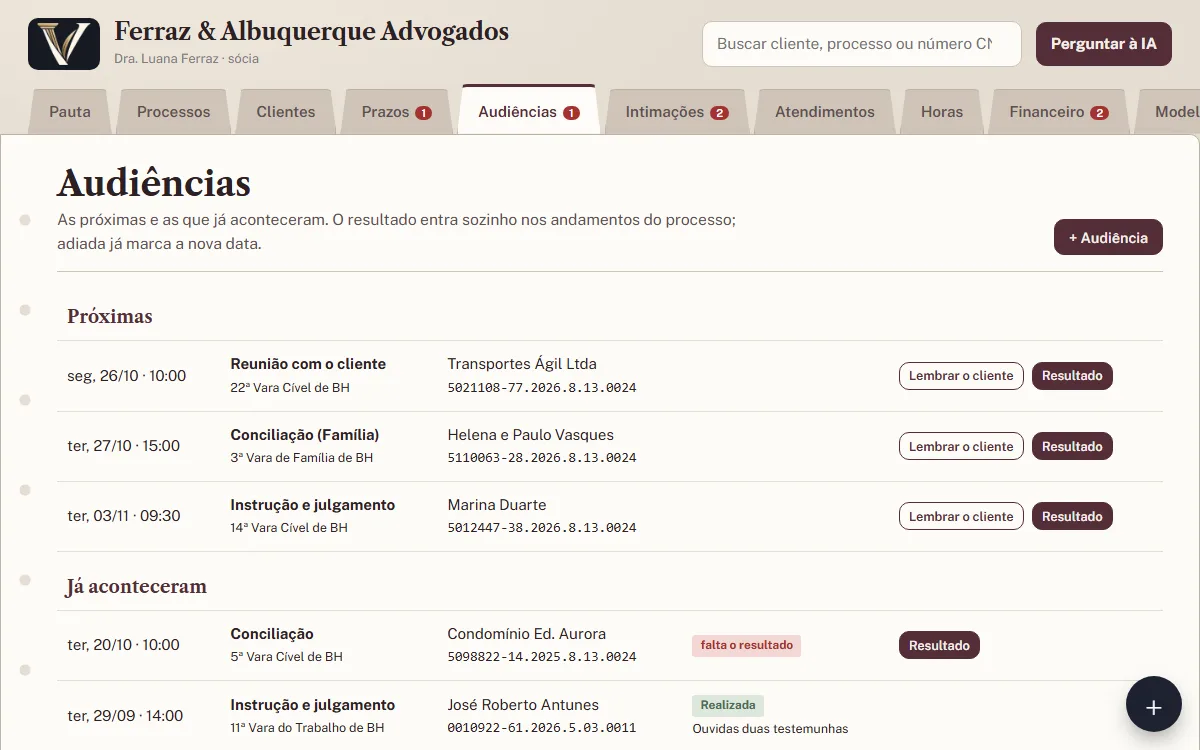
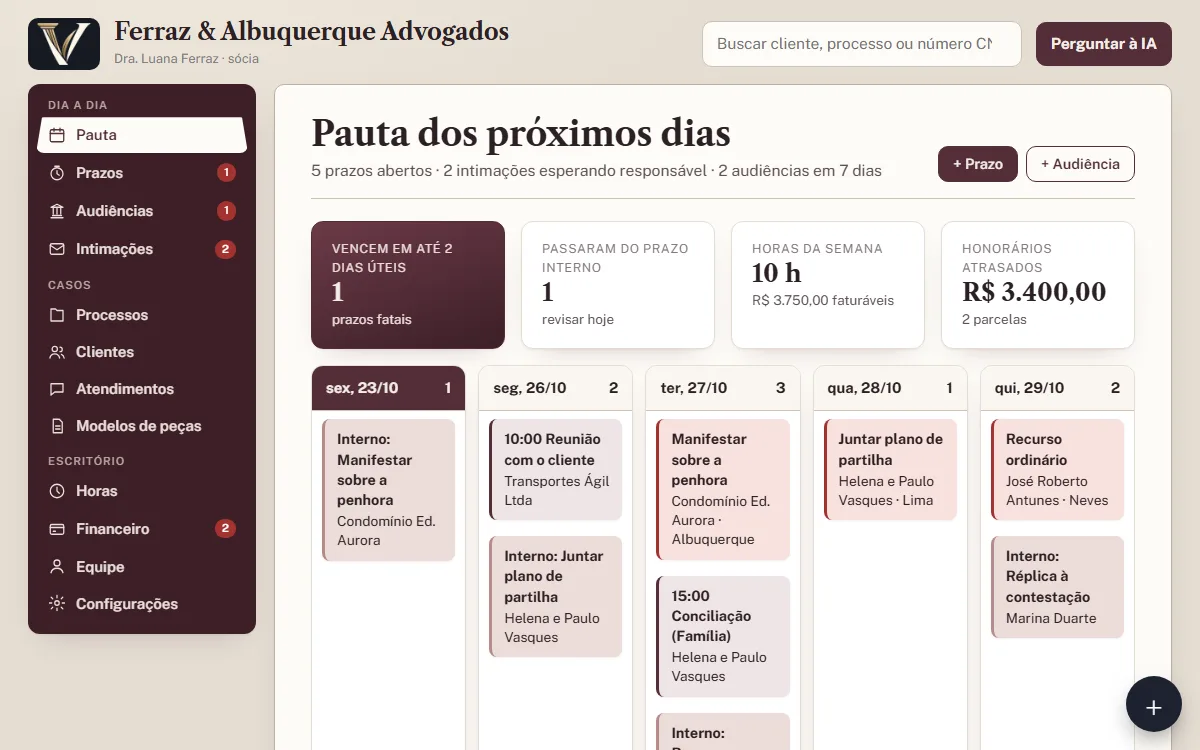
Jurídico Completo: menu lateral

diff --git a/veltria-juridico.html b/veltria-juridico.html
@@ -38,7 +38,7 @@
 <script src="js/videos.js?v=10" defer></script>
 <script src="js/versao.js?v=1" defer></script>
 <script src="js/conta.js?v=9" defer></script>
-<script type="application/ld+json">[{"@context": "https://schema.org", "@type": "SoftwareApplication", "name": "Veltria Jurídico", "applicationCategory": "BusinessApplication", "operatingSystem": "Web, Android, iOS (navegador)", "description": "As intimações do Diário de Justiça Eletrônico chegam sozinhas, com o prazo contado em dias úteis, feriados e recesso forense.", "url": "https://bluerose-store.com/veltria-juridico.html", "image": "https://bluerose-store.com/img/sistemas/juridico-completo.webp?v=5", "offers": [{"@type": "Offer", "price": "149", "priceCurrency": "BRL", "name": "Assinatura mensal"}], "publisher": {"@type": "Organization", "name": "Blue Rose Express", "url": "https://bluerose-store.com/"}}, {"@context": "https://schema.org", "@type": "FAQPage", "mainEntity": [{"@type": "Question", "name": "De onde vêm as intimações?", "acceptedAnswer": {"@type": "Answer", "text": "Do DJEN, o Diário de Justiça Eletrônico Nacional do CNJ, pela API pública. Você cadastra as OABs e o sistema busca todo dia."}}, {"@type": "Question", "name": "Considera feriados locais?", "acceptedAnswer": {"@type": "Answer", "text": "Os nacionais e o recesso forense já vêm prontos. Os feriados estaduais e municipais da sua comarca não vêm prontos: confira esses dias ao calcular o prazo."}}, {"@type": "Question", "name": "Os dados ficam seguros?", "acceptedAnswer": {"@type": "Answer", "text": "Sim. Na versão na nuvem, cada escritório só vê os próprios dados, com regras de acesso no banco de dados."}}, {"@type": "Question", "name": "Como funciona o teste de 7 dias?", "acceptedAnswer": {"@type": "Answer", "text": "Crie a conta e use por 7 dias sem pagar e sem cartão. Se gostar, assine e os dados continuam; se não, nada é cobrado."}}]}, {"@context": "https://schema.org", "@type": "BreadcrumbList", "itemListElement": [{"@type": "ListItem", "position": 1, "name": "Início", "item": "https://bluerose-store.com/"}, {"@type": "ListItem", "position": 2, "name": "Sistemas", "item": "https://bluerose-store.com/sistemas.html"}, {"@type": "ListItem", "position": 3, "name": "Veltria Jurídico", "item": "https://bluerose-store.com/veltria-juridico.html"}]}]</script>
+<script type="application/ld+json">[{"@context": "https://schema.org", "@type": "SoftwareApplication", "name": "Veltria Jurídico", "applicationCategory": "BusinessApplication", "operatingSystem": "Web, Android, iOS (navegador)", "description": "As intimações do Diário de Justiça Eletrônico chegam sozinhas, com o prazo contado em dias úteis, feriados e recesso forense.", "url": "https://bluerose-store.com/veltria-juridico.html", "image": "https://bluerose-store.com/img/sistemas/juridico-completo.webp?v=6", "offers": [{"@type": "Offer", "price": "149", "priceCurrency": "BRL", "name": "Assinatura mensal"}], "publisher": {"@type": "Organization", "name": "Blue Rose Express", "url": "https://bluerose-store.com/"}}, {"@context": "https://schema.org", "@type": "FAQPage", "mainEntity": [{"@type": "Question", "name": "De onde vêm as intimações?", "acceptedAnswer": {"@type": "Answer", "text": "Do DJEN, o Diário de Justiça Eletrônico Nacional do CNJ, pela API pública. Você cadastra as OABs e o sistema busca todo dia."}}, {"@type": "Question", "name": "Considera feriados locais?", "acceptedAnswer": {"@type": "Answer", "text": "Os nacionais e o recesso forense já vêm prontos. Os feriados estaduais e municipais da sua comarca não vêm prontos: confira esses dias ao calcular o prazo."}}, {"@type": "Question", "name": "Os dados ficam seguros?", "acceptedAnswer": {"@type": "Answer", "text": "Sim. Na versão na nuvem, cada escritório só vê os próprios dados, com regras de acesso no banco de dados."}}, {"@type": "Question", "name": "Como funciona o teste de 7 dias?", "acceptedAnswer": {"@type": "Answer", "text": "Crie a conta e use por 7 dias sem pagar e sem cartão. Se gostar, assine e os dados continuam; se não, nada é cobrado."}}]}, {"@context": "https://schema.org", "@type": "BreadcrumbList", "itemListElement": [{"@type": "ListItem", "position": 1, "name": "Início", "item": "https://bluerose-store.com/"}, {"@type": "ListItem", "position": 2, "name": "Sistemas", "item": "https://bluerose-store.com/sistemas.html"}, {"@type": "ListItem", "position": 3, "name": "Veltria Jurídico", "item": "https://bluerose-store.com/veltria-juridico.html"}]}]</script>
 <link rel="stylesheet" href="css/assistente.css?v=7">
 <script src="js/assistente.js?v=20" defer></script>
 <script src="js/cookies.js?v=2" defer></script>
@@ -74,7 +74,7 @@
       <div class="np-cta"><a class="btn btn-primary" href="app/juridicocompleto/" data-teste="juridicocompleto" data-teste-nome="Veltria Jurídico Completo" data-teste-mensal="149">Testar 7 dias grátis</a><a class="btn btn-ghost" href="#versoes">Ver as 3 versões</a></div>
       <p class="np-nota">7 dias grátis em qualquer versão, sem cartão: nada é cobrado no teste. Depois, a partir de <b>R$&nbsp;89/mês</b> (Essencial), sem fidelidade.</p>
     </div>
-    <div class="np-video"><a href="demos/sistemas/juridico-completo/" target="_blank" rel="noopener"><img src="img/sistemas/juridico-completo.webp?v=5" width="1200" height="750" alt="Tela do Veltria Jurídico Completo"></a><p>Veltria Jurídico Completo · clique para abrir a demonstração</p></div>
+    <div class="np-video"><a href="demos/sistemas/juridico-completo/" target="_blank" rel="noopener"><img src="img/sistemas/juridico-completo.webp?v=6" width="1200" height="750" alt="Tela do Veltria Jurídico Completo"></a><p>Veltria Jurídico Completo · clique para abrir a demonstração</p></div>
   </section>
   <section class="np-dores wrap"><h2 class="sec-title">O que ele resolve</h2><div class="np-tres"><div><span class="np-num">01</span><p>Ler os diários todo dia para não perder intimação</p></div><div><span class="np-num">02</span><p>Contar prazo na mão, com risco de errar feriado</p></div><div><span class="np-num">03</span><p>Horas e honorários controlados em planilha</p></div></div></section>
   <section class="vs wrap" id="versoes"><h2 class="sec-title">Escolha a sua versão</h2><p class="vs-intro">Três sistemas diferentes, cada um feito para um tamanho de negócio. Todos com 7 dias grátis, sem cartão, Assistente IA e equipe com login de cada pessoa.</p><div class="vs-grade"><article class="vs-card"><span class="vs-chip">App para celular</span><h3 class="vs-nome">Essencial</h3><p class="vs-para">Advogado autônomo</p><p class="vs-preco"><span>R$</span><b>89</b><span>/mês</span></p><p class="vs-ano">ou R$&nbsp;854 por ano, 20% a menos</p><ul class="vs-lista"><li><svg class="ico" aria-hidden="true"><use href="img/icones.svg#i-check"/></svg><span>Prazos contados em dias úteis, com feriados e recesso</span></li><li><svg class="ico" aria-hidden="true"><use href="img/icones.svg#i-check"/></svg><span>Intimações explicadas em português simples</span></li><li><svg class="ico" aria-hidden="true"><use href="img/icones.svg#i-check"/></svg><span>Processos, audiências e calculadora</span></li><li><svg class="ico" aria-hidden="true"><use href="img/icones.svg#i-check"/></svg><span>Honorários com cobrança no WhatsApp</span></li><li><svg class="ico" aria-hidden="true"><use href="img/icones.svg#i-check"/></svg><span>Minha assinatura dentro do app</span></li></ul><div class="vs-bts"><a class="btn btn-primary" href="app/juridicoessencial/" data-teste="juridicoessencial" data-teste-nome="Veltria Jurídico Essencial" data-teste-mensal="89">Testar 7 dias grátis</a><a class="vs-demo" href="demos/sistemas/juridico-essencial/?celular=1" target="_blank" rel="noopener">Ver a demonstração</a></div></article><article class="vs-card vs-destaque"><span class="vs-chip">O mais escolhido</span><h3 class="vs-nome">Completo</h3><p class="vs-para">Escritório pequeno</p><p class="vs-preco"><span>R$</span><b>149</b><span>/mês</span></p><p class="vs-ano">ou R$&nbsp;1.430 por ano, 20% a menos</p><ul class="vs-lista"><li><svg class="ico" aria-hidden="true"><use href="img/icones.svg#i-check"/></svg><span>Pauta da semana do escritório</span></li><li><svg class="ico" aria-hidden="true"><use href="img/icones.svg#i-check"/></svg><span>Prazo interno e fatal com responsável</span></li><li><svg class="ico" aria-hidden="true"><use href="img/icones.svg#i-check"/></svg><span>Intimações para distribuir e atendimentos</span></li><li><svg class="ico" aria-hidden="true"><use href="img/icones.svg#i-check"/></svg><span>Horas, honorários e modelos de peças</span></li><li><svg class="ico" aria-hidden="true"><use href="img/icones.svg#i-check"/></svg><span>Clientes com CPF/CNPJ conferido e conflito de interesses</span></li><li><svg class="ico" aria-hidden="true"><use href="img/icones.svg#i-check"/></svg><span>Calculadora de prazo forense e protocolo com número</span></li><li><svg class="ico" aria-hidden="true"><use href="img/icones.svg#i-check"/></svg><span>Audiências com resultado nos andamentos</span></li><li><svg class="ico" aria-hidden="true"><use href="img/icones.svg#i-check"/></svg><span>Tarefas por processo, editar e encerrar processo</span></li><li><svg class="ico" aria-hidden="true"><use href="img/icones.svg#i-check"/></svg><span>Êxito, cobrança das horas e recibo com valor por extenso</span></li><li><svg class="ico" aria-hidden="true"><use href="img/icones.svg#i-check"/></svg><span>Equipe e assistente IA</span></li></ul><div class="vs-bts"><a class="btn btn-primary" href="app/juridicocompleto/" data-teste="juridicocompleto" data-teste-nome="Veltria Jurídico Completo" data-teste-mensal="149">Testar 7 dias grátis</a><a class="vs-demo" href="demos/sistemas/juridico-completo/" target="_blank" rel="noopener">Ver a demonstração</a></div></article><article class="vs-card"><span class="vs-chip">Para quem quer tudo</span><h3 class="vs-nome">Avançado</h3><p class="vs-para">Banca com muitos processos</p><p class="vs-preco"><span>R$</span><b>299</b><span>/mês</span></p><p class="vs-ano">ou R$&nbsp;2.870 por ano, 20% a menos</p><ul class="vs-lista"><li><svg class="ico" aria-hidden="true"><use href="img/icones.svg#i-check"/></svg><span>Filas de trabalho com atalhos de teclado</span></li><li><svg class="ico" aria-hidden="true"><use href="img/icones.svg#i-check"/></svg><span>Prazos com dupla checagem e conflitos</span></li><li><svg class="ico" aria-hidden="true"><use href="img/icones.svg#i-check"/></svg><span>Jurimetria e provisões de risco</span></li><li><svg class="ico" aria-hidden="true"><use href="img/icones.svg#i-check"/></svg><span>Faturamento com rateio entre sócios</span></li><li><svg class="ico" aria-hidden="true"><use href="img/icones.svg#i-check"/></svg><span>Audiências com advogado ou correspondente escalado</span></li><li><svg class="ico" aria-hidden="true"><use href="img/icones.svg#i-check"/></svg><span>Pedidos dos clientes com prazo de resposta</span></li><li><svg class="ico" aria-hidden="true"><use href="img/icones.svg#i-check"/></svg><span>Acordos com a alçada de cada cliente</span></li><li><svg class="ico" aria-hidden="true"><use href="img/icones.svg#i-check"/></svg><span>Carga da equipe e meta de horas</span></li><li><svg class="ico" aria-hidden="true"><use href="img/icones.svg#i-check"/></svg><span>Correspondentes, diligências e nota de débito</span></li><li><svg class="ico" aria-hidden="true"><use href="img/icones.svg#i-check"/></svg><span>Relatório mensal para o cliente</span></li><li><svg class="ico" aria-hidden="true"><use href="img/icones.svg#i-check"/></svg><span>Processos em massa, prazo em lote e auditoria</span></li></ul><div class="vs-bts"><a class="btn btn-primary" href="app/juridicoavancado/" data-teste="juridicoavancado" data-teste-nome="Veltria Jurídico Avançado" data-teste-mensal="299">Testar 7 dias grátis</a><a class="vs-demo" href="demos/sistemas/juridico-avancado/" target="_blank" rel="noopener">Ver a demonstração</a></div></article></div></section>

diff --git a/demos/sistemas/juridico-completo/app.js b/demos/sistemas/juridico-completo/app.js
@@ -117,7 +117,18 @@ const opcoesProc = (sel) => db.processos.map((p) => `<option value="${p.id}" ${p
 function seloPrazo(p) { if (p.status === 'protocolado') return '<span class="et ok">protocolado</span>'; const u = uteisFaltam(p.fatal); return u < 0 ? '<span class="et v">vencido</span>' : u <= 1 ? `<span class="et v">${u === 0 ? 'vence hoje' : '1 dia útil'}</span>` : p.interno <= 0 ? `<span class="et a">passou do interno · ${u} d.ú.</span>` : `<span class="et">${u} dias úteis</span>`; }
 
 // ------------------------------------------------------------------ abas
-const ABAS = [['pauta', 'Pauta'], ['processos', 'Processos'], ['clientes', 'Clientes'], ['prazos', 'Prazos'], ['audiencias', 'Audiências'], ['intimacoes', 'Intimações'], ['atendimentos', 'Atendimentos'], ['horas', 'Horas'], ['financeiro', 'Financeiro'], ['modelos', 'Modelos de peças'], ['equipe', 'Equipe'], ['ajustes', 'Ajustes']];
+const ABAS = [['pauta', 'Pauta'], ['processos', 'Processos'], ['clientes', 'Clientes'], ['prazos', 'Prazos'], ['audiencias', 'Audiências'], ['intimacoes', 'Intimações'], ['atendimentos', 'Atendimentos'], ['horas', 'Horas'], ['financeiro', 'Financeiro'], ['modelos', 'Modelos de peças'], ['equipe', 'Equipe'], ['ajustes', 'Configurações']];
+// índice lateral da pasta: seções em grupos; no celular, os 4 primeiros atalhos ficam na barra de baixo e o resto em "Mais"
+const GRUPOS_J = [['Dia a dia', ['pauta', 'prazos', 'audiencias', 'intimacoes']], ['Casos', ['processos', 'clientes', 'atendimentos', 'modelos']], ['Escritório', ['horas', 'financeiro', 'equipe', 'ajustes']]];
+const RAPIDOS_J = ['pauta', 'prazos', 'processos', 'clientes'];
+const ICO_J = { pauta: '<rect x="3" y="5" width="18" height="16" rx="2"/><path d="M3 10h18M8 3v4M16 3v4"/>', prazos: '<circle cx="12" cy="13" r="8"/><path d="M12 9v4l3 2M9 3h6"/>', audiencias: '<path d="M4 21h16M6 18h12M12 3l8 4H4z"/><path d="M7 8v8M12 8v8M17 8v8"/>', intimacoes: '<rect x="3" y="5" width="18" height="14" rx="2"/><path d="M3 7l9 6 9-6"/>', processos: '<path d="M4 4h6l2 2h8v14H4z"/>', clientes: '<circle cx="9" cy="8" r="3.5"/><path d="M2.5 20c.8-3.5 3.4-5.5 6.5-5.5s5.7 2 6.5 5.5"/><path d="M16 11.5a3 3 0 1 0 0-6M21.5 20c-.4-2.4-1.7-4.1-3.6-4.9"/>', atendimentos: '<path d="M4 5h16v11H9l-5 4z"/>', modelos: '<path d="M7 3h8l4 4v14H7z"/><path d="M10 12h6M10 16h6"/>', horas: '<circle cx="12" cy="12" r="9"/><path d="M12 7v5l3 3"/>', financeiro: '<rect x="3" y="6" width="18" height="13" rx="2"/><path d="M3 10h18M7 15h3"/>', equipe: '<circle cx="12" cy="8" r="4"/><path d="M4 21c1-4 4.3-6 8-6s7 2 8 6"/>', ajustes: '<circle cx="12" cy="12" r="3"/><path d="M12 2v3M12 19v3M4.2 4.2l2.1 2.1M17.7 17.7l2.1 2.1M2 12h3M19 12h3M4.2 19.8l2.1-2.1M17.7 6.3l2.1-2.1"/>', mais: '<circle cx="5" cy="12" r="1.6"/><circle cx="12" cy="12" r="1.6"/><circle cx="19" cy="12" r="1.6"/>' };
+const nomeAbaJ = (k) => (ABAS.find(([x]) => x === k) || [k, k])[1];
+function indiceJ(atual, cont) {
+  const item = (k) => `<a href="#${k}" ${k === atual ? 'aria-current="page"' : ''}><svg viewBox="0 0 24 24" aria-hidden="true">${ICO_J[k]}</svg><span>${nomeAbaJ(k)}</span>${cont[k] ? `<span class="cont" aria-label="${cont[k]} pendente(s)">${cont[k]}</span>` : ''}</a>`;
+  const noMais = !RAPIDOS_J.includes(atual), pendMais = GRUPOS_J.flatMap(([, ks]) => ks).filter((k) => !RAPIDOS_J.includes(k)).reduce((s, k) => s + (cont[k] || 0), 0);
+  return `<div class="indice-j" id="indice-j">${GRUPOS_J.map(([g, ks]) => `<p class="grupo-j">${g}</p>${ks.map(item).join('')}`).join('')}</div>
+    <div class="rapido-j">${RAPIDOS_J.map(item).join('')}<button type="button" class="mais-j" data-mais-j aria-expanded="false" aria-controls="indice-j" ${noMais ? 'aria-current="page"' : ''}><svg viewBox="0 0 24 24" aria-hidden="true">${ICO_J.mais}</svg><span>Mais</span>${pendMais ? `<span class="cont">${pendMais}</span>` : ''}</button></div>`;
+}
 let sub = 'andamentos', verEnc = false;
 const V = {
   pauta() {
@@ -213,7 +224,7 @@ const V = {
   },
   ajustes() {
     const a = db.ajustes;
-    return `<div class="titulo"><div><h1>Ajustes</h1><p>Seus e do escritório.</p></div></div><div class="grade"><section class="ficha c6"><h2>Você</h2><label class="cp">Seu nome<input data-meu-nome value="${sx(pessoa(db.eu).nome)}"></label><label class="cp">Abrir em<select data-aj="abrir">${ABAS.slice(0, 8).map(([k, t]) => `<option value="${k}" ${a.abrir === k ? 'selected' : ''}>${t}</option>`).join('')}</select></label><label class="cp">Letras<select data-aj="letra"><option value="normal" ${a.letra === 'normal' ? 'selected' : ''}>Normal</option><option value="grande" ${a.letra === 'grande' ? 'selected' : ''}>Grande</option></select></label></section>
+    return `<div class="titulo"><div><h1>Configurações</h1><p>Seus e do escritório.</p></div></div><div class="grade"><section class="ficha c6"><h2>Você</h2><label class="cp">Seu nome<input data-meu-nome value="${sx(pessoa(db.eu).nome)}"></label><label class="cp">Abrir em<select data-aj="abrir">${ABAS.slice(0, 8).map(([k, t]) => `<option value="${k}" ${a.abrir === k ? 'selected' : ''}>${t}</option>`).join('')}</select></label><label class="cp">Letras<select data-aj="letra"><option value="normal" ${a.letra === 'normal' ? 'selected' : ''}>Normal</option><option value="grande" ${a.letra === 'grande' ? 'selected' : ''}>Grande</option></select></label></section>
       <section class="ficha c6"><h2>Escritório</h2><label class="cp">Nome<input data-esc="nome" value="${sx(db.esc.nome)}"></label><label class="cp">OAB da sociedade<input data-esc="oab" value="${sx(db.esc.oab)}"></label><label class="cp">Prazo interno (dias úteis antes do fatal)<select data-aj="alertaInterno">${[1, 2, 3, 5].map((n) => `<option ${a.alertaInterno == n ? 'selected' : ''}>${n}</option>`).join('')}</select></label></section></div>`;
   },
 };
@@ -262,7 +273,7 @@ function abre() {
   const [s, a] = (location.hash.slice(1) || db.ajustes.abrir || 'pauta').split('/');
   const cont = { prazos: db.prazos.filter((p) => p.status === 'aberto' && uteisFaltam(p.fatal) <= 2).length, intimacoes: db.intimacoes.filter((i) => !i.tratada).length, financeiro: parcAberto().filter(({ p }) => p.dia < 0).length, audiencias: db.audiencias.filter((a) => a.dia < 0 && !a.resultado).length };
   const atual = s === 'processo' ? 'processos' : s;
-  qs('#fichario').innerHTML = ABAS.map(([k, t]) => `<a href="#${k}" ${k === atual ? 'aria-current="page"' : ''}>${t}${cont[k] ? `<span class="cont">${cont[k]}</span>` : ''}</a>`).join('');
+  qs('#fichario').innerHTML = indiceJ(atual, cont); qs('#fichario').classList.remove('aberto');
   qs('#pasta').innerHTML = (V[s] || V.pauta)(a);
   qs('#esc-nome').textContent = db.esc.nome; qs('#esc-usuario').textContent = `${pessoa(db.eu).nome} · ${pessoa(db.eu).cargo.toLowerCase()}`;
   document.documentElement.style.fontSize = db.ajustes.letra === 'grande' ? '112%' : '';
@@ -334,6 +345,8 @@ const F = {
 };
 
 document.addEventListener('click', (e) => {
+  const mj = e.target.closest('[data-mais-j]'); if (mj) { const n = qs('#fichario'), ab = n.classList.toggle('aberto'); mj.setAttribute('aria-expanded', String(ab)); return; }
+  if (!e.target.closest('#fichario')) qs('#fichario')?.classList.remove('aberto');
   const t = e.target;
   if (t.closest('[data-ia]')) { gavetaIA(); return; }
   if (t.closest('[data-fecha-ia]')) { qs('#gaveta-ia').hidden = true; return; }

diff --git a/demos/sistemas/juridico-completo/estilo.css b/demos/sistemas/juridico-completo/estilo.css
@@ -158,3 +158,47 @@ tbody tr { transition: background .12s ease; } tbody tr:hover td { background: #
 
 /* recibo: imprime só a janela */
 @media print { body.so-recibo > *:not(.veu) { display: none !important; } body.so-recibo .veu { position: static; background: none; padding: 0; } body.so-recibo .janela { box-shadow: none; border: 0; max-width: none; } body.so-recibo .janela h2, body.so-recibo .janela .pe { display: none; } }
+
+/* ===== índice lateral 23/10/2026: as seções saem do topo e viram o índice da pasta, à esquerda; no celular, barra embaixo + Mais ===== */
+.mesa-j { display: grid; grid-template-columns: 228px minmax(0, 1fr); gap: 0 18px; max-width: 1480px; margin: 0 auto; padding: 0 28px 28px; align-items: start; }
+.mesa-j .pasta { margin: 0; max-width: none; border-radius: 10px; min-height: calc(100dvh - 120px); }
+.fichario { position: sticky; top: 12px; display: block; padding: 0; overflow: visible; max-width: none; margin: 0; }
+.indice-j { background: var(--bordo-esc); color: #eadfd9; border-radius: 12px; padding: 10px 8px 12px; box-shadow: var(--sombra); max-height: calc(100dvh - 24px); overflow-y: auto; scrollbar-width: thin; }
+.grupo-j { margin: 12px 12px 6px; font: 600 .7rem/1 var(--sans); letter-spacing: .08em; text-transform: uppercase; color: #b9a39f; }
+.grupo-j:first-child { margin-top: 6px; }
+.fichario a, .fichario .mais-j { display: flex; align-items: center; gap: 10px; width: 100%; box-sizing: border-box; padding: 9px 12px; margin: 1px 0; background: transparent; color: #eadfd9; border: 0; border-radius: 8px; font: 600 .93rem/1.2 var(--sans); text-decoration: none; cursor: pointer; text-align: left; position: relative; }
+.fichario a:hover, .fichario .mais-j:hover { background: rgba(255, 255, 255, .07); color: #fff; }
+.fichario a[aria-current="page"] { background: var(--folha); color: var(--bordo); padding-top: 9px; border-top: 0; box-shadow: 0 6px 16px -10px rgba(0, 0, 0, .6); }
+.fichario a[aria-current="page"]::before { content: ""; position: absolute; left: -8px; top: 8px; bottom: 8px; width: 4px; border-radius: 0 3px 3px 0; background: var(--rosa); }
+.fichario svg { width: 18px; height: 18px; flex: none; fill: none; stroke: currentColor; stroke-width: 1.7; stroke-linecap: round; stroke-linejoin: round; }
+.fichario a .cont, .fichario .mais-j .cont { margin-left: auto; background: var(--vermelho); color: #fff; font-size: .7rem; line-height: 1; padding: 4px 7px; border-radius: 9px; }
+.fichario a:focus-visible, .fichario .mais-j:focus-visible { outline: 3px solid var(--rosa); outline-offset: 1px; }
+.rapido-j { display: none; }
+.pasta::before { display: none; }
+.mesa-j .pasta { padding-left: 36px; }
+@media (max-width: 1100px) { .mesa-j { grid-template-columns: 196px minmax(0, 1fr); padding: 0 16px 20px; gap: 0 12px; } .fichario a { font-size: .88rem; padding: 8px 10px; } }
+@media (max-width: 860px) {
+  .mesa-j { display: block; padding: 0 0 calc(76px + env(safe-area-inset-bottom)); }
+  .mesa-j .pasta { border-radius: 0; min-height: 0; padding: 18px 14px 24px; }
+  .fichario { position: fixed; left: 0; right: 0; bottom: 0; top: auto; z-index: 40; }
+  .rapido-j { display: grid; grid-template-columns: repeat(5, 1fr); background: var(--bordo-esc); padding: 6px 4px calc(6px + env(safe-area-inset-bottom)); box-shadow: 0 -8px 24px -12px rgba(0, 0, 0, .5); }
+  .rapido-j a, .rapido-j .mais-j { flex-direction: column; gap: 3px; padding: 7px 2px; font-size: .7rem; text-align: center; justify-content: center; margin: 0; }
+  .rapido-j a[aria-current="page"], .rapido-j .mais-j[aria-current="page"] { background: rgba(255, 255, 255, .12); color: #fff; box-shadow: none; }
+  .rapido-j a[aria-current="page"]::before { display: none; }
+  .rapido-j svg { width: 21px; height: 21px; }
+  .rapido-j .cont { position: absolute; top: 3px; left: calc(50% + 6px); margin: 0; padding: 2px 5px; font-size: .62rem; }
+  .indice-j { display: none; position: absolute; left: 8px; right: 8px; bottom: calc(100% + 8px); max-height: 65dvh; border-radius: 14px; box-shadow: 0 -10px 40px -10px rgba(0, 0, 0, .55); }
+  .fichario.aberto .indice-j { display: grid; grid-template-columns: 1fr 1fr; gap: 0 6px; }
+  .fichario.aberto .grupo-j { grid-column: 1 / -1; }
+}
+@media print { .mesa-j { display: block; padding: 0; } .fichario { display: none !important; } }
+@media (max-width: 860px) {
+  .escritorio { display: grid; grid-template-columns: auto minmax(0, 1fr) auto; align-items: center; gap: 10px; padding: 10px 12px 12px; }
+  .escritorio .v-logo { height: 30px; grid-column: 1; }
+  .nome-esc { grid-column: 2 / 4; min-width: 0; } .nome-esc b { font-size: 1.1rem; } .nome-esc small { font-size: .8rem; }
+  .procura { grid-column: 1 / 3; min-width: 0; } .procura input { width: 100%; max-width: none; box-sizing: border-box; }
+  .ia-chama { grid-column: 3; padding: 10px 12px; }
+  .num b { font-size: 1.3rem; white-space: nowrap; }
+}
+body:has(.fichario.aberto) .vk-mais, body:has(.fichario.aberto) .vk-menu { display: none !important; }
+.num b { font-size: clamp(1.3rem, 2.05vw, 1.9rem); white-space: nowrap; }

diff --git a/index.html b/index.html
@@ -130,7 +130,7 @@
           <div class="ini-note-img">
             <img class="on" src="img/sistemas/crm-completo.webp?v=4" width="1200" height="750" alt="" fetchpriority="high">
             <img data-ramo="obras" src="img/sistemas/obras-completo.webp?v=4" width="1200" height="750" alt="" loading="lazy">
-            <img data-ramo="juridico" src="img/sistemas/juridico-completo.webp?v=5" width="1200" height="750" alt="" loading="lazy">
+            <img data-ramo="juridico" src="img/sistemas/juridico-completo.webp?v=6" width="1200" height="750" alt="" loading="lazy">
             <img data-ramo="agenda" src="img/sistemas/agenda-completo.webp?v=6" width="1200" height="750" alt="" loading="lazy">
             <img data-ramo="financeiro" src="img/sistemas/financeiro-completo.webp?v=6" width="1200" height="750" alt="" loading="lazy">
           </div>
@@ -218,7 +218,7 @@
           </div>
         </article>
         <article class="prod-c reveal" data-cat="nexo" data-destaque style="--sis:#0f766e;--i:0">
-          <a class="prod-foto" href="veltria-juridico.html#versoes"><img src="img/sistemas/juridico-completo.webp?v=5" width="1200" height="750" loading="lazy" alt="Tela do Veltria Jurídico">1:41</span></a>
+          <a class="prod-foto" href="veltria-juridico.html#versoes"><img src="img/sistemas/juridico-completo.webp?v=6" width="1200" height="750" loading="lazy" alt="Tela do Veltria Jurídico">1:41</span></a>
           <div class="prod-txt">
             <span class="prod-tag">Processos e prazos</span>
             <h3><a href="veltria-juridico.html">Veltria Jurídico</a></h3>
@@ -278,7 +278,7 @@
           </div>
         </article>
         <article data-ir="veltria-juridico.html?versao=completo#versoes" class="prod-c reveal" data-cat="juridico" hidden style="--sis:#542e38;--i:1">
-          <a class="prod-foto" href="veltria-juridico.html?versao=completo#versoes"><img src="img/sistemas/juridico-completo.webp?v=5" width="1200" height="750" loading="lazy" alt="Tela do Veltria Jurídico Completo"></a>
+          <a class="prod-foto" href="veltria-juridico.html?versao=completo#versoes"><img src="img/sistemas/juridico-completo.webp?v=6" width="1200" height="750" loading="lazy" alt="Tela do Veltria Jurídico Completo"></a>
           <div class="prod-txt">
             <span class="prod-tag">Escritório pequeno</span>
             <h3><a href="veltria-juridico.html?versao=completo#versoes">Veltria Jurídico Completo</a></h3>

diff --git a/demos/sistemas/juridico-completo/index.html b/demos/sistemas/juridico-completo/index.html
@@ -10,7 +10,7 @@
 <link rel="preconnect" href="https://fonts.googleapis.com">
 <link rel="preconnect" href="https://fonts.gstatic.com" crossorigin>
 <link href="https://fonts.googleapis.com/css2?family=Libre+Caslon+Text:wght@400;700&family=Public+Sans:wght@400;500;600;700&display=swap" rel="stylesheet">
-<link rel="stylesheet" href="estilo.css?v=4">
+<link rel="stylesheet" href="estilo.css?v=6">
 <script src="../base/versoes.js?v=23"></script>
 <script src="../base/conta-nuvem.js?v=30"></script>
 <style>.v-logo{height:42px;width:auto;flex:none;display:block;object-fit:contain}.v-logo.v-claro{background:#161a22;padding:5px 9px;border-radius:10px;box-sizing:content-box}</style>
@@ -23,11 +23,13 @@
   <label class="procura"><span class="vis">Buscar</span><input id="procura" type="search" placeholder="Buscar cliente, processo ou número CNJ" autocomplete="off"></label>
   <button type="button" class="ia-chama" data-ia>Perguntar à IA</button>
 </header>
+<div class="mesa-j">
 <nav class="fichario" id="fichario" aria-label="Seções do escritório"></nav>
 <main class="pasta" id="pasta" tabindex="-1"></main>
+</div>
 <aside class="gaveta-ia" id="gaveta-ia" aria-label="Assistente" hidden></aside>
 <div class="avisos" id="avisos" role="status" aria-live="polite"></div>
-<script type="module" src="app.js?v=7"></script>
+<script type="module" src="app.js?v=8"></script>
 <script src="../base/camada.js?v=13" defer></script>
 </body>
 </html>

diff --git a/sistemas.html b/sistemas.html
@@ -122,7 +122,7 @@
         </div>
       </article>
       <article data-ir="veltria-juridico.html#versoes" class="sis reveal" id="juridico" style="--sis:#0f766e;--i:3">
-        <a class="sis-foto" href="veltria-juridico.html#versoes" ><img src="img/sistemas/juridico-completo.webp?v=5" alt="Tela do Veltria Jurídico" width="1200" height="750" loading="lazy"></a>
+        <a class="sis-foto" href="veltria-juridico.html#versoes" ><img src="img/sistemas/juridico-completo.webp?v=6" alt="Tela do Veltria Jurídico" width="1200" height="750" loading="lazy"></a>
         <div class="sis-corpo">
           <span class="sis-tag">Processos e prazos</span>
           <h2><a href="veltria-juridico.html">Veltria Jurídico</a></h2>

diff --git a/como-funciona.html b/como-funciona.html
@@ -104,7 +104,7 @@
         </div>
         <p class="cf-preco reveal">A partir de <b>R$&nbsp;149/mês</b> · sem cartão no teste · sem fidelidade</p>
       </div>
-      <figure class="cf-tela reveal"><img src="img/sistemas/juridico-completo.webp?v=5" width="1200" height="750" loading="lazy" alt="Tela real do Veltria Jurídico"></figure>
+      <figure class="cf-tela reveal"><img src="img/sistemas/juridico-completo.webp?v=6" width="1200" height="750" loading="lazy" alt="Tela real do Veltria Jurídico"></figure>
     </div>
   </section>
   <section class="cf-ramo" id="agenda" aria-labelledby="t-agenda">
